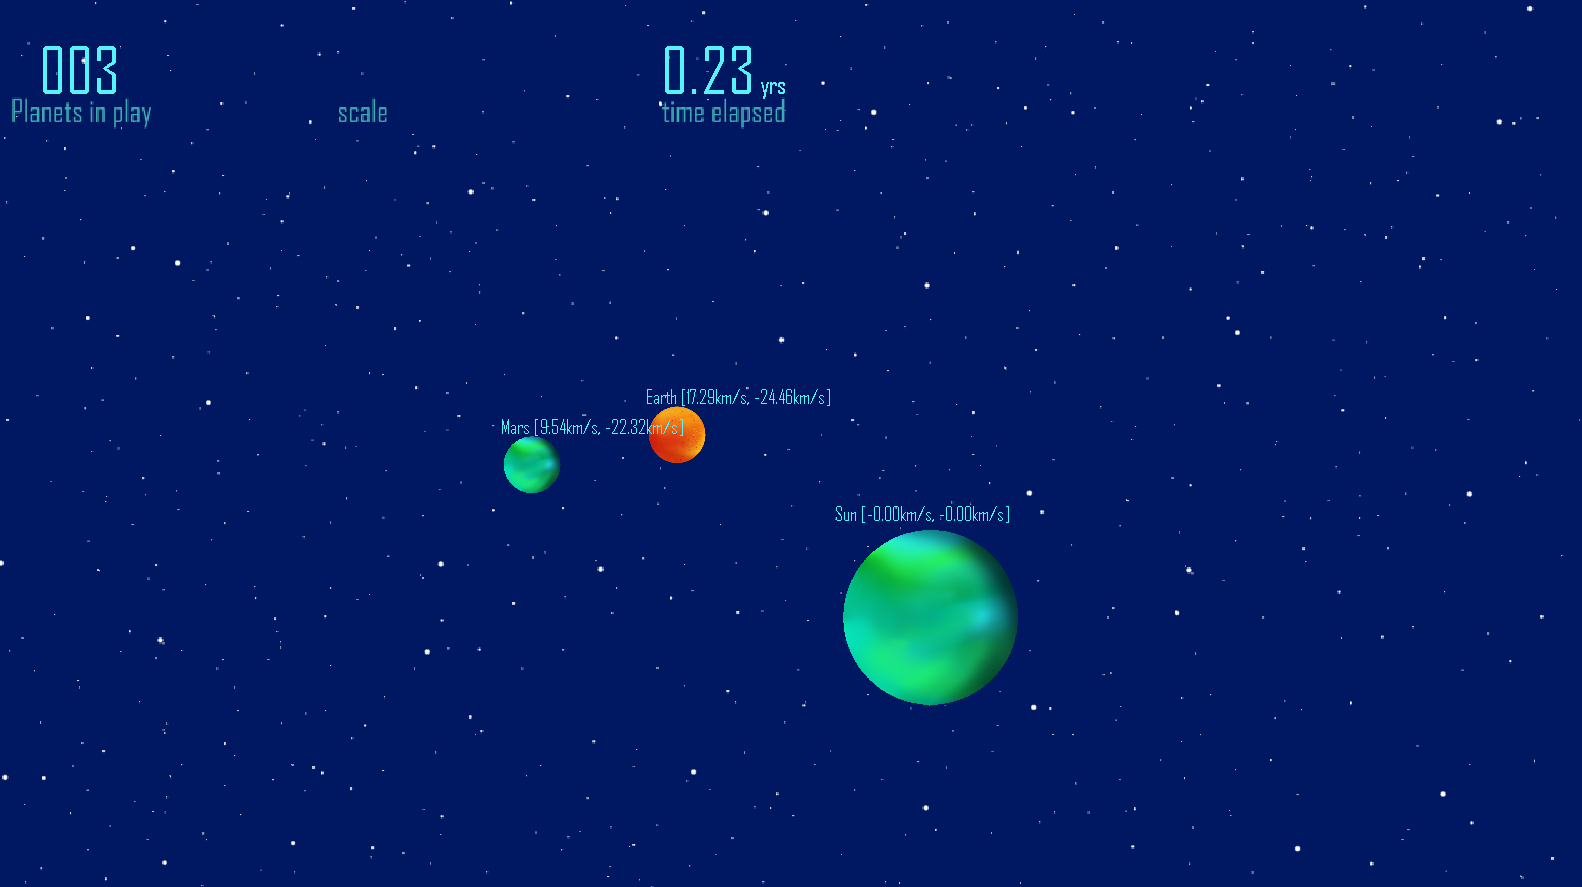
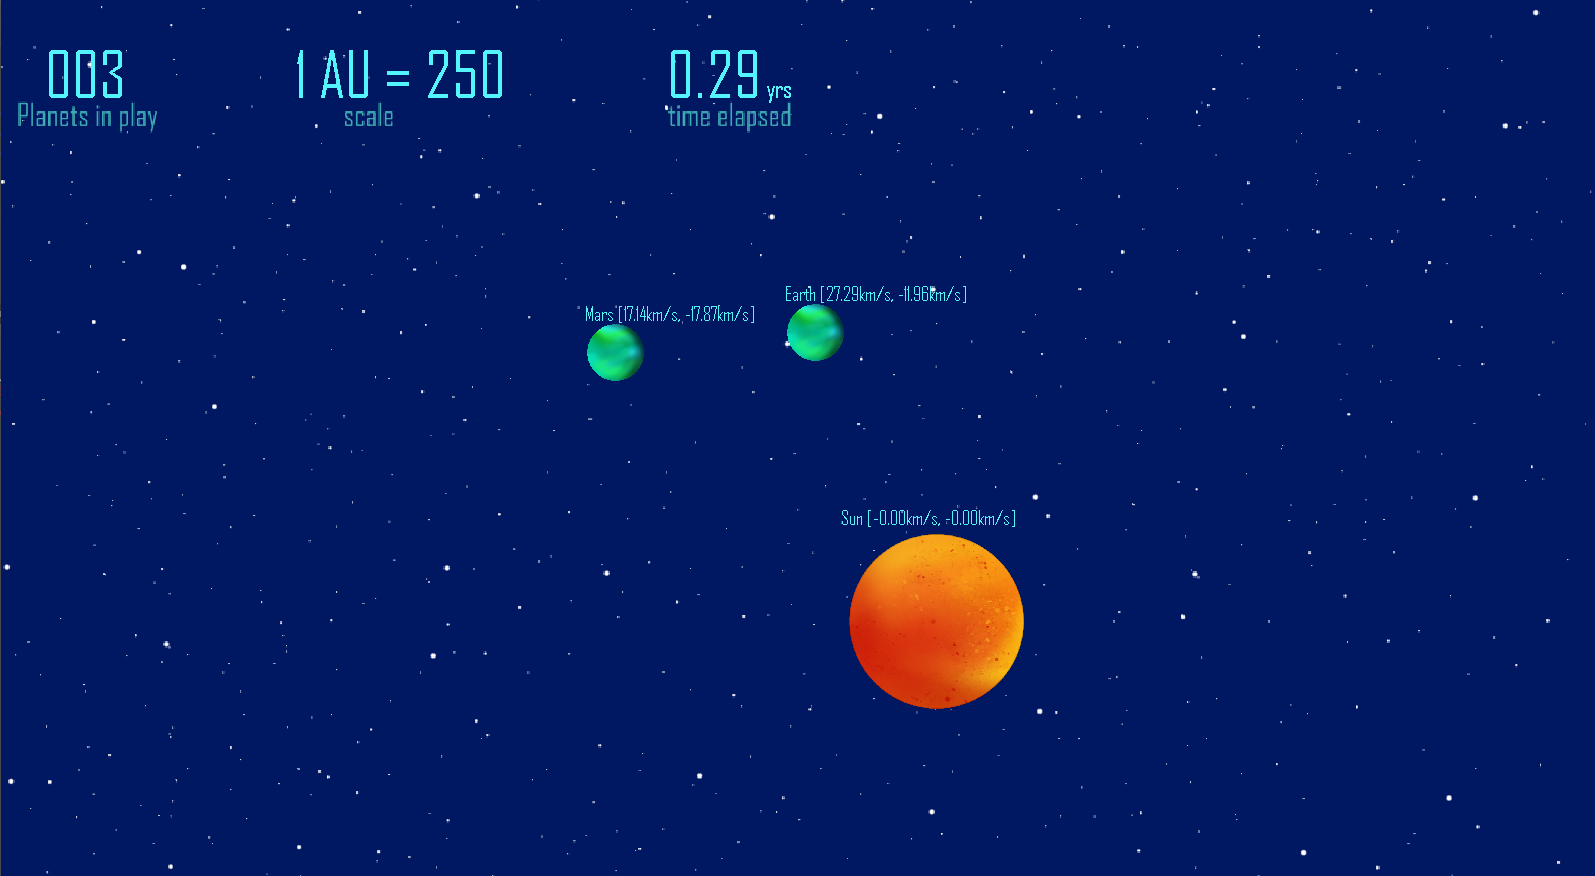
fixed scale in creative mode

diff --git a/src/Views/gameplayScreen.java b/src/Views/gameplayScreen.java
@@ -185,10 +185,12 @@ public class gameplayScreen {
 		time = physics.getRealWorldTime(time);
 		String timeString = String.format("%.2f", time);
 		String planetString = String.format("%03d", planetsInPlay);
+		String scaleString = "1 AU = "+String.format("%03d", (int)physics.scaleFactor);
 		g.setColor(cyan);
 		g.setFont(new Font("Agency FB", Font.PLAIN, 50));
 		g.drawString(timeString,533,80);
 		g.drawString(planetString,35,80);
+		g.drawString(scaleString, 235, 80);
 		String timeUnits = "yrs";
 		g.setFont(new Font("Agency FB", Font.PLAIN, 20));
 		g.drawString(timeUnits, 613, 80);
